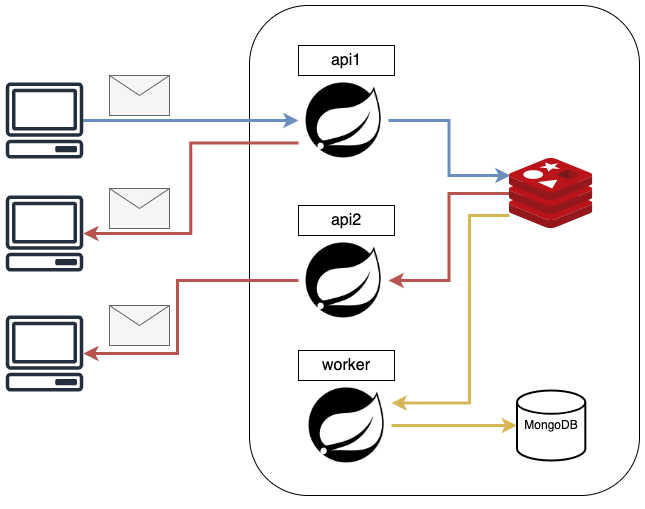
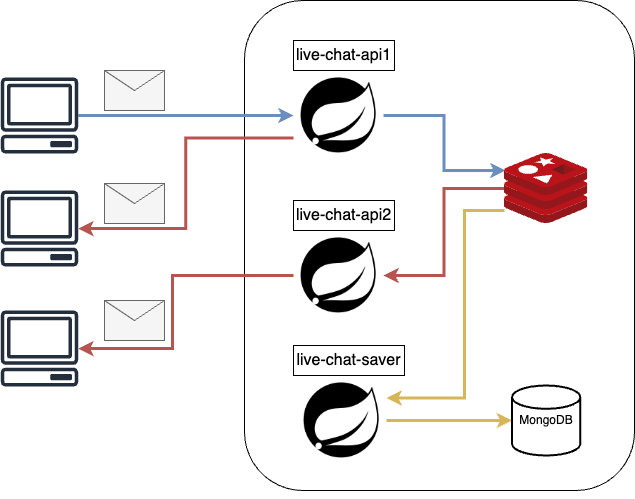
문서 보강 - 멀티 모듈, 명세

diff --git a/README.md b/README.md
@@ -7,27 +7,79 @@ Redis와 WebSocket을 이용한 라이브 채팅 API
 ![아키텍처 다이어그램](./docs/resources/images/live-chat-api-architecture.png)
 
 * 웹소켓을 이용하여 클라이언트와 실시간 통신
-* 레디스 Pub/Sub 을 이용하여 여러 서버에 접속한 클라이언트에게 메시지 전송
-* 레디스에 저장된 메시지를 워커에서 몽고디비로 저장
+* 레디스 Pub/Sub 을 이용하여 여러 live-chat-api 에 접속한 클라이언트에게 메시지 전송
+* 레디스에 저장된 메시지를 live-chat-saver 에서 몽고디비로 저장
+
+# 명세
+## API 명세
+
+서버 실행 후 http://localhost:8080/swagger-ui.html 에서 확인 가능합니다.
+
+## WebSocket 명세
+
+[WebSocket STOMP 명세](https://github.com/hyper-web-space/live-chat-server/wiki/WebSocket-STOMP-%EB%AA%85%EC%84%B8) 에서 확인할 수 있습니다.
+
+# 멀티 모듈
+
+이 프로젝트는 멀티 모듈로 구성되어 있습니다.
+
+## live-chat-api
+
+클라이언트와 통신하는 API 서버입니다.
+
+* rest api 를 통해 기본적인 인증과 채팅 관련 데이터를 전송합니다.
+
+* 웹소켓을 사용하여 클라이어트와 실시간 통신을 하여 메시지를 전송합니다.
+
+* Redis Pub/Sub 을 사용하여 여러 live-chat-api 와 live-chat-saver 에 메시지를 공유합니다.
+
+## live-chat-saver
+
+메시지를 저장하는 서버입니다.
+
+* Redis Sub 으로 메시지를 전달받아 몽고 디비에 저장합니다.
+
+## live-chat-message
+
+메시지를 공통으로 사용하는 모듈입니다.
+
+* live-chat-api 와 live-chat-saver 에서 사용하며 전송되는 메시지 관련 클래스들을 포함합니다.
+
 
 # 빌드
 
 ## gradle
-
+### live-chat-api
 ```shell
-$ gradlew bootJar
+$ ./gradlew :live-chat-api:bootJar
+```
+
+### live-chat-saver
+```shell
+$ ./gradlew :live-chat-saver:bootJar
 ```
 
 ## 도커 빌드 및 이미지 생성
-
+### live-chat-api
 ```shell
-$ make docker-build
+$ make docker-build-api
+```
+
+### live-chat-saver
+```shell
+$ make docker-build-saver
 ```
 
 # 실행
-
+## jar 파일로 실행
+### live-chat-api
 ```shell
-$ java -jar build/libs/live-chat-api.jar
+$ java -jar live-chat-api/build/libs/live-chat-api.jar
+```
+
+### live-chat-saver
+```shell
+$ java -jar live-chat-saver/build/libs/live-chat-saver.jar
 ```
 
 ## docker-compose 로 실행
@@ -51,9 +103,24 @@ services:
       MONGODB_HOST: mongo
       MONGODB_USERNAME: root
       MONGODB_PASSWORD: root
+      REDIS_HOST: redis
+      REDIS_PORT: 6379
     depends_on:
       - mongo
       - redis
+  saver:
+    image: ghcr.io/hyper-web-space/live-chat-saver:latest
+    restart: always
+    ports:
+      - "9090:9090"
+    environment:
+      MONGODB_HOST: mongo
+      MONGODB_USERNAME: root
+      MONGODB_PASSWORD: root
+      REDIS_HOST: redis
+      REDIS_PORT: 6379
+    depends_on:
+      - api
   mongo:
     image: mongo
     restart: always
@@ -69,4 +136,5 @@ services:
     image: redis:latest
     ports:
       - "6379:6379"
+
 ```
